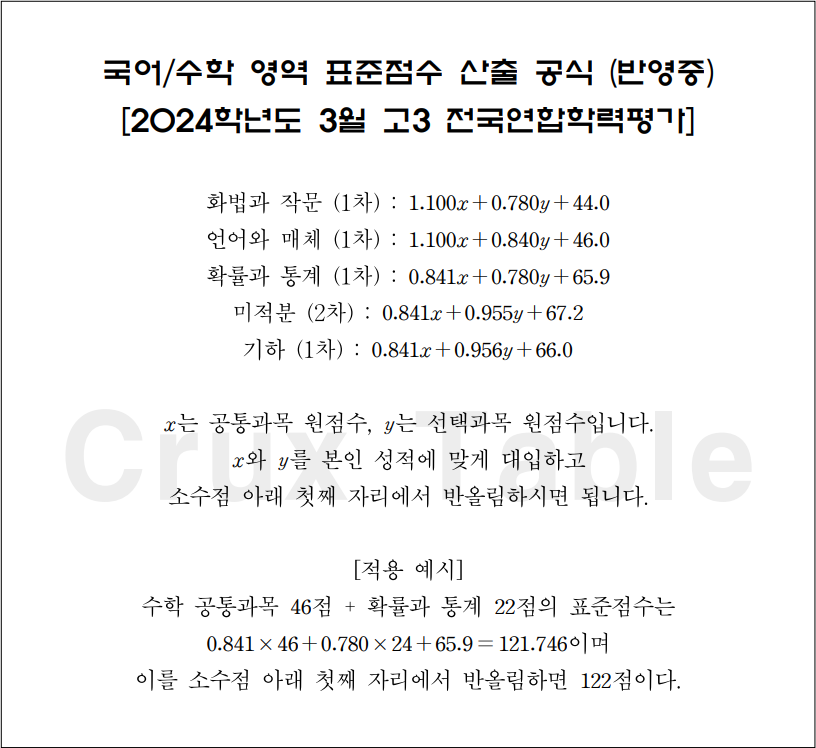
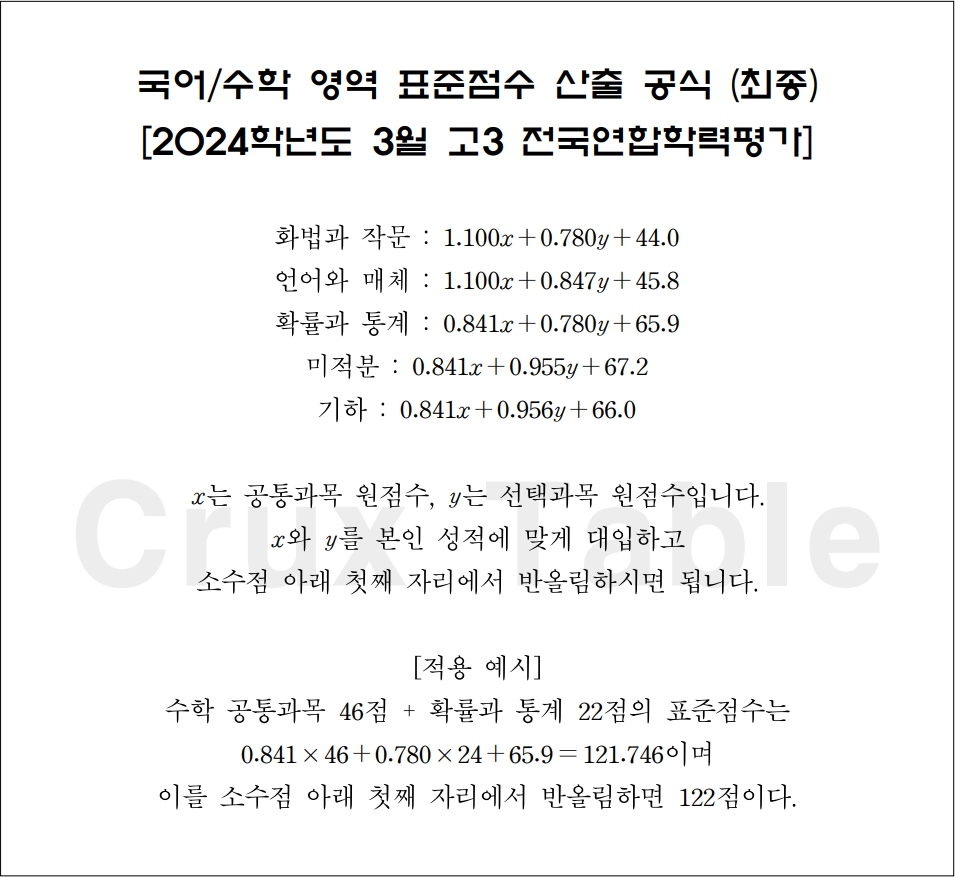
202403Final

diff --git a/js/data.js b/js/data.js
@@ -1108,7 +1108,7 @@ let data = {
         "국어": [
             {
                 "화법과 작문": [1.100, 0.780, 44.0],
-                "언어와 매체": [1.100, 0.840, 46.0]
+                "언어와 매체": [1.100, 0.847, 45.8]
             },
             ["150", "99.99", "1"],
             ["148", "99.97", "1"],
